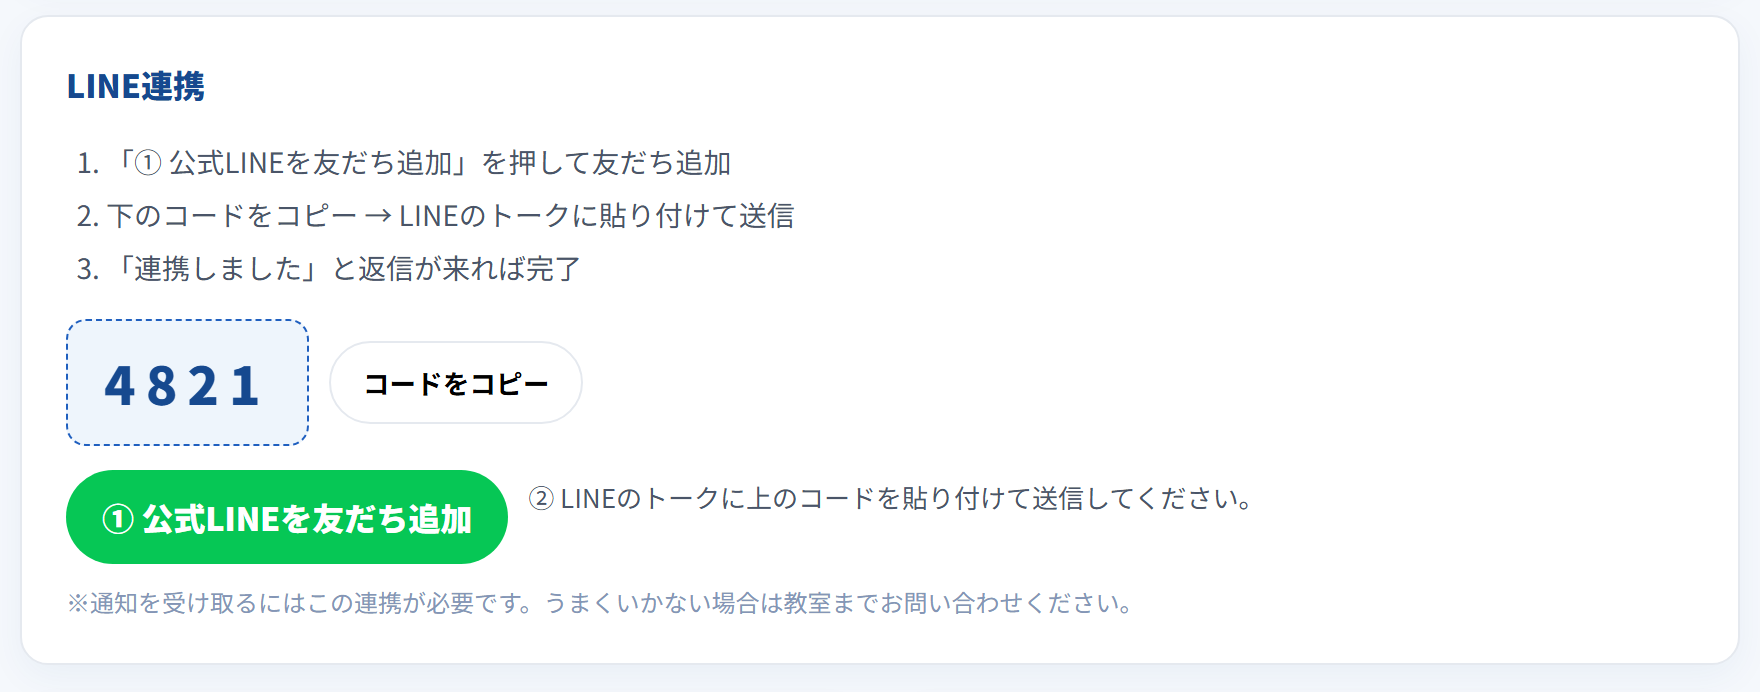
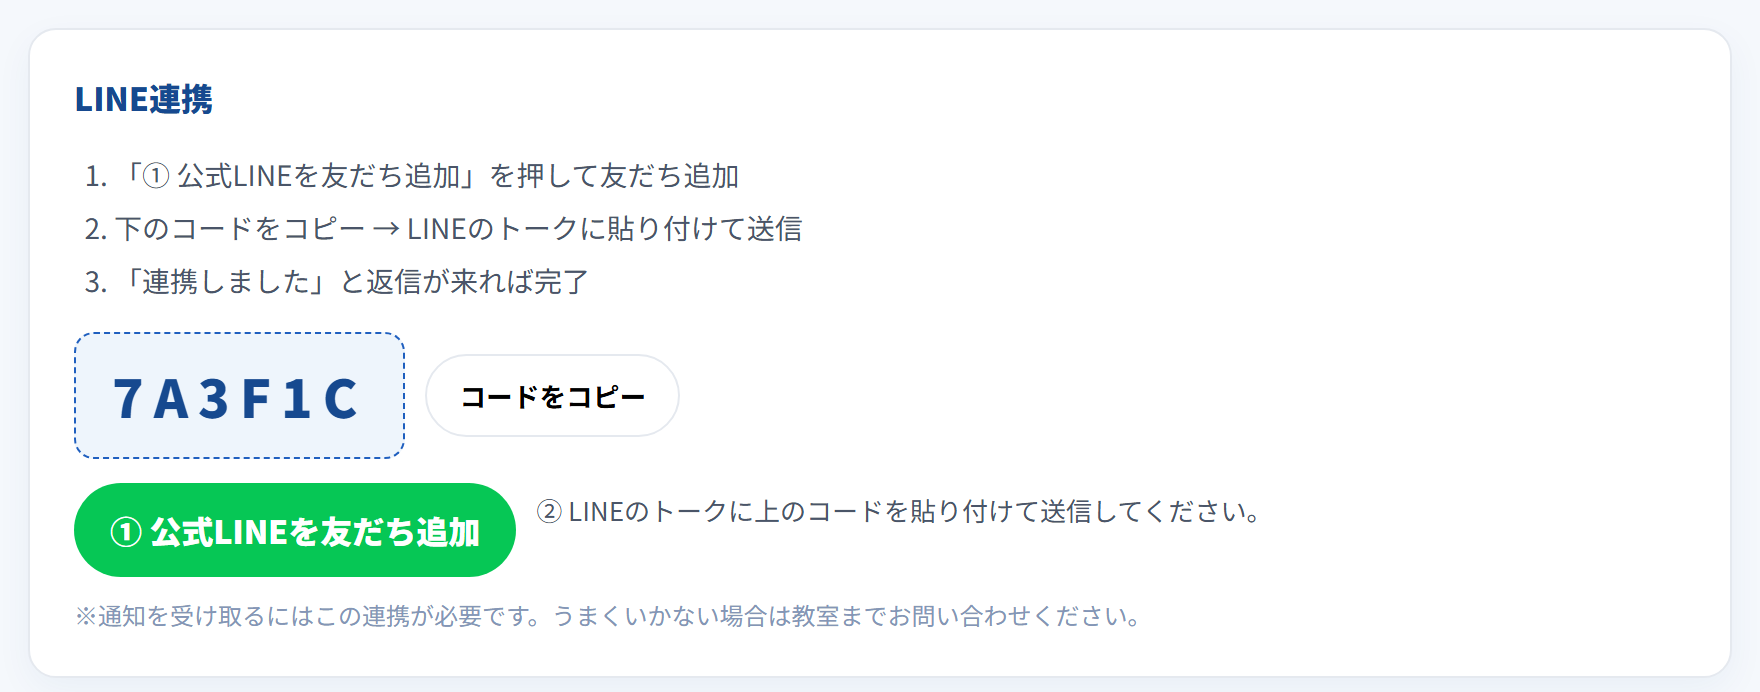
Review fixes 5-7: academy copy, canonical/sitemap/OGP, price and area text
5. The academy called itself "協賛: アスクシステム" while the parent guide and
   terms say 運営; the top page said "講師を置かない" where the other two explain
   staff do support the children. The my-page guide told parents a same-day
   absence reaches us through the site, but genClassDays starts at i=1, so
   today is never in the dropdown - the guide now says to phone or LINE.
   The LINE screenshot showed a 4-digit code; real ones are 6 hex characters.
   Added password help to the login page.
6. Every page now carries a canonical URL (www and /index.html both answer 200)
   and a full OGP block with an absolute image; added sitemap.xml and pointed
   robots.txt at it. The academy's og:image was a relative path.
7. The price note said "修理・技術・部材は費用別", which read as if the technician's
   time were extra. It now states the listed price includes the labour, lists
   what is charged separately, and repeats the quote-before-work promise from
   the commercial-transactions notice. The service area was only in the map
   image; the municipalities are now in the text as well.

diff --git a/public/academy/mypage-guide.html b/public/academy/mypage-guide.html
@@ -208,14 +208,14 @@ figcaption{margin-top:8px;font-size:13.5px;color:var(--muted);text-align:center;
     <h2><span class="n">4</span>LINE連携（最初に必ず行ってください）</h2>
     <p class="sub">入退室のお知らせをLINEで受け取るために必要です。最初の1回だけの作業です。</p>
     <figure>
-      <img src="assets/manual/parent-line.png" alt="LINE連携カード。手順1〜3と、4桁の連携コード、コードをコピーボタン、公式LINEを友だち追加ボタンが表示されている">
+      <img src="assets/manual/parent-line.png" alt="LINE連携カード。手順1〜3と、6桁の連携コード、コードをコピーボタン、公式LINEを友だち追加ボタンが表示されている">
       <figcaption>「LINE連携」— 連携がお済みでない場合はこの画面になります</figcaption>
     </figure>
     <ol class="steps">
       <li><b>「① 公式LINEを友だち追加」を押す</b>
         LINEアプリが開きます。ASKデジタルアカデミーの公式アカウントを友だち追加してください。</li>
       <li><b>連携コードをコピーする</b>
-        マイページに戻り、大きく表示されている数字（連携コード）の横の<b>「コードをコピー」</b>を押します。</li>
+        マイページに戻り、大きく表示されている6桁の英数字（連携コード）の横の<b>「コードをコピー」</b>を押します。</li>
       <li><b>LINEのトークにコードを貼り付けて送信</b>
         友だち追加した公式LINEのトーク画面を開き、コピーしたコードを貼り付けて送信します。</li>
       <li><b>「連携しました」の返信が来たら完了</b>
@@ -239,7 +239,7 @@ figcaption{margin-top:8px;font-size:13.5px;color:var(--muted);text-align:center;
     <ol class="steps">
       <li><b>「📩 欠席を連絡する」を押す</b>お子さまのカードにあるオレンジ色のボタンです。</li>
       <li><b>お休みする日を選ぶ</b>
-        ご契約のコースの登校日が一覧で出ます。休校日は自動的に除かれています。</li>
+        ご契約のコースの登校日が<b>翌日以降</b>の分だけ一覧で出ます。休校日は自動的に除かれています。</li>
       <li><b>「この日で連絡する」を押す</b>「欠席を連絡しました」と表示されれば完了です。</li>
     </ol>
     <figure>
@@ -247,8 +247,9 @@ figcaption{margin-top:8px;font-size:13.5px;color:var(--muted);text-align:center;
       <figcaption>「欠席を連絡する」を押すと、日付を選ぶ欄が開きます</figcaption>
     </figure>
     <div class="box blue">
-      <h4>当日の急なお休みは、お電話か公式LINEが確実です</h4>
-      マイページからのご連絡でも届きますが、開校時間直前・直後は、お電話（0966-63-4253）か公式LINEをおすすめします。
+      <h4>当日の急なお休みは、お電話か公式LINEでお願いします</h4>
+      マイページの日付欄には<b>当日は表示されません</b>。当日の欠席は、
+      お電話（0966-63-4253）か公式LINEでご連絡ください。
     </div>
     <p style="font-size:14px;color:var(--muted);">※ご都合による欠席分の受講料の返金・繰越はありません。振替の可否は教室にご相談ください。</p>
   </section>

diff --git a/public/ict-support.html b/public/ict-support.html
@@ -5,6 +5,15 @@
 <meta name="viewport" content="width=device-width, initial-scale=1.0">
 <title>ICTサポート｜AI活用支援 詳細・料金｜アスクシステム</title>
 <meta name="description" content="Wi-Fi設定・PC初期設定からスマートホーム化、DX化・AI導入まで。八代市・水俣市・芦北町のアスクシステムが提供するICTサポート｜AI活用支援の詳細内容と料金をご案内します。">
+<link rel="canonical" href="https://asksystem.jp/ict-support.html">
+<meta property="og:type" content="article">
+<meta property="og:url" content="https://asksystem.jp/ict-support.html">
+<meta property="og:title" content="ICTサポート｜AI活用支援 詳細・料金｜アスクシステム">
+<meta property="og:description" content="Wi-Fi設定・PC初期設定からスマートホーム化、DX化・AI導入まで。サービス内容と税込料金をご案内します。">
+<meta property="og:image" content="https://asksystem.jp/assets/ogp.jpg">
+<meta property="og:site_name" content="アスクシステム">
+<meta property="og:locale" content="ja_JP">
+<meta name="twitter:card" content="summary_large_image">
 <link rel="preconnect" href="https://fonts.googleapis.com">
 <link rel="preconnect" href="https://fonts.gstatic.com" crossorigin>
 <link href="https://fonts.googleapis.com/css2?family=Noto+Sans+JP:wght@400;500;700;900&display=swap" rel="stylesheet">
@@ -167,7 +176,11 @@ ul{list-style:none;}
   background:#fff1e6;color:var(--orange);font-size:18.5px;font-weight:800;
   padding:9px 18px;border-radius:999px;white-space:nowrap;
 }
-.price-note{text-align:center;color:var(--muted);font-size:18px;margin-top:18px;}
+.price-note{color:var(--muted);font-size:16px;line-height:1.9;margin:18px auto 0;max-width:860px;
+  background:#f7fafd;border:1px solid #e1ebf5;border-radius:12px;padding:18px 22px;}
+.price-note p + p{margin-top:8px;}
+.price-note b{color:#33404f;}
+.price-note .pn-strong{color:#33404f;}
 .price-cta{display:flex;justify-content:center;margin-top:32px;}
 
 /* ===== Contact (shared with homepage) ===== */
@@ -365,7 +378,13 @@ footer a:hover{color:var(--blue);}
         <div class="pt-price quote">要見積</div>
       </div>
     </div>
-    <p class="price-note">※表示価格は税込です。修理・技術・部材は費用別。詳しくはお問い合わせください。</p>
+    <div class="price-note">
+      <p>※表示価格はすべて<b>税込</b>です。記載の金額には、作業にあたる技術料が含まれます。</p>
+      <p>※次の費用は別途申し受けます：<b>部材費・機器代・出張費</b>、および修理など記載の作業範囲を超える作業。</p>
+      <p class="pn-strong">追加費用が発生する場合は、<b>必ず事前にお見積りをご提示し、ご了承いただいてから</b>作業に着手します。
+        お客様の承諾なく費用を追加することはありません。</p>
+      <p>作業内容・台数・所要時間によって金額は変わります。まずはお気軽にご相談ください。</p>
+    </div>
     <div class="price-cta">
       <a href="#contact" class="btn btn-pink">お見積り・ご相談はこちら</a>
     </div>

diff --git a/public/index.html b/public/index.html
@@ -5,6 +5,15 @@
 <meta name="viewport" content="width=device-width, initial-scale=1.0">
 <title>【八代・水俣・芦北】ICTサポート・パソコン教室｜アスクシステム</title>
 <meta name="description" content="パソコン・Wi-Fi・ICTの困りごとを地域密着で即対応。ICTサポートからデジタル教育まで、アスクシステムにお任せください。八代市・水俣市・芦北町・津奈木町・出水市対応。">
+<link rel="canonical" href="https://asksystem.jp/">
+<meta property="og:type" content="website">
+<meta property="og:url" content="https://asksystem.jp/">
+<meta property="og:title" content="【八代・水俣・芦北】ICTサポート・パソコン教室｜アスクシステム">
+<meta property="og:description" content="パソコン・Wi-Fi・ICTの困りごとを地域密着で即対応。ICTサポートからデジタル教育まで、八代市・水俣市・芦北町・津奈木町・出水市に対応します。">
+<meta property="og:image" content="https://asksystem.jp/assets/ogp.jpg">
+<meta property="og:site_name" content="アスクシステム">
+<meta property="og:locale" content="ja_JP">
+<meta name="twitter:card" content="summary_large_image">
 <link rel="preconnect" href="https://fonts.googleapis.com">
 <link rel="preconnect" href="https://fonts.gstatic.com" crossorigin>
 <link href="https://fonts.googleapis.com/css2?family=Noto+Sans+JP:wght@400;500;700;900&display=swap" rel="stylesheet">
@@ -361,6 +370,9 @@ ul{list-style:none;}
   background:#f4f8fc;border:1px solid #e1ebf5;
   border-radius:8px;padding:8px;margin:0 auto 14px;
 }
+.area-list{font-size:15px;line-height:1.7;color:#33404f;font-weight:700;text-align:center;}
+.area-list + .area-list{margin-top:8px;}
+.area-list span{display:block;font-size:13px;font-weight:600;color:var(--muted);}
 .area-note{font-size:15px;color:var(--muted);text-align:center;margin-top:10px;}
 
 .owner{display:flex;flex-direction:column;align-items:center;gap:14px;text-align:center;}
@@ -732,7 +744,9 @@ footer a:hover{color:var(--blue);}
         <div class="hd">対応エリア</div>
         <div class="body">
           <img class="area-img" src="assets/map.png" alt="対応エリア地図（八代市・水俣市・芦北町・津奈木町・出水市）" width="372" height="520" loading="lazy" decoding="async">
-          <p class="area-note">※その他相談可</p>
+          <p class="area-list"><span>熊本県</span>八代市・水俣市・芦北町・津奈木町</p>
+          <p class="area-list"><span>鹿児島県</span>出水市</p>
+          <p class="area-note">※上記以外の地域もご相談ください。</p>
         </div>
       </div>
       <div class="box" id="owner">

diff --git a/public/academy/index.html b/public/academy/index.html
@@ -10,7 +10,7 @@
   <meta property="og:title" content="ASKデジタルアカデミー｜熊本の小学生向けAI学習塾">
   <meta property="og:description" content="ASKデジタルアカデミーは、小学生向けの5教科学習・タイピング・AI学習を通して、自分で学ぶ力を育てます。">
   <meta property="og:type" content="website">
-  <meta property="og:image" content="assets/images/ogp.png">
+  <meta property="og:image" content="https://asksystem.jp/academy/assets/images/ogp.png">
   <meta property="og:site_name" content="ASKデジタルアカデミー">
   <meta property="og:locale" content="ja_JP">
   <meta name="twitter:card" content="summary_large_image">
@@ -56,7 +56,7 @@
           小学生のうちから。
         </h1>
         <p class="hero-description">
-          対象は小学3～6年生。講師を置かない新しい学習カリキュラムやAIの正しい活用を通して自ら学ぶ習慣を。
+          対象は小学3～6年生。一斉授業ではなく、スタッフが見守るなかで自ら学ぶ習慣を。AIの正しい活用も身につけます。
         </p>
         <div class="hero-buttons">
           <a href="https://lin.ee/xaSJRVQ" class="btn-primary" target="_blank" rel="noopener noreferrer">
@@ -332,7 +332,7 @@
       <div class="footer-bottom">
         <p>&copy; 2026 ASK Digital Academy. All rights reserved.</p>
         <div class="sponsor">
-          <span>協賛:</span>
+          <span>運営:</span>
           <strong style="color: rgba(255,255,255,0.7);">アスクシステム</strong>
         </div>
       </div>

diff --git a/public/philosophy.html b/public/philosophy.html
@@ -5,6 +5,15 @@
 <meta name="viewport" content="width=device-width, initial-scale=1.0">
 <title>経営理念｜アスクシステム</title>
 <meta name="description" content="アスクシステムの経営理念。自己依存・自己挑戦・自己責任・自己評価・他者支援の5つの信条を掲げ、地域のICT活用を支えます。">
+<link rel="canonical" href="https://asksystem.jp/philosophy.html">
+<meta property="og:type" content="article">
+<meta property="og:url" content="https://asksystem.jp/philosophy.html">
+<meta property="og:title" content="経営理念｜アスクシステム">
+<meta property="og:description" content="アスクシステムの経営理念。自己依存・自己挑戦・自己責任・自己評価・他者支援の5つの信条を掲げ、地域のICT活用を支えます。">
+<meta property="og:image" content="https://asksystem.jp/assets/ogp.jpg">
+<meta property="og:site_name" content="アスクシステム">
+<meta property="og:locale" content="ja_JP">
+<meta name="twitter:card" content="summary_large_image">
 <link rel="preconnect" href="https://fonts.googleapis.com">
 <link rel="preconnect" href="https://fonts.gstatic.com" crossorigin>
 <link href="https://fonts.googleapis.com/css2?family=Noto+Sans+JP:wght@400;500;700;900&family=Noto+Serif+JP:wght@500;600;700&display=swap" rel="stylesheet">

diff --git a/public/tokushoho.html b/public/tokushoho.html
@@ -6,11 +6,15 @@
 <title>特定商取引法に基づく表記｜アスクシステム</title>
 <meta name="description" content="アスクシステムの特定商取引法に基づく表記。事業者情報、役務の対価、お支払い方法・時期、サービスの提供時期、キャンセルの取扱いを記載しています。">
 <meta name="robots" content="index,follow">
+<link rel="canonical" href="https://asksystem.jp/tokushoho.html">
+<meta property="og:type" content="article">
+<meta property="og:url" content="https://asksystem.jp/tokushoho.html">
 <meta property="og:title" content="特定商取引法に基づく表記｜アスクシステム">
 <meta property="og:description" content="アスクシステムの特定商取引法に基づく表記です。">
-<meta property="og:type" content="article">
+<meta property="og:image" content="https://asksystem.jp/assets/ogp.jpg">
 <meta property="og:site_name" content="アスクシステム">
 <meta property="og:locale" content="ja_JP">
+<meta name="twitter:card" content="summary_large_image">
 <link rel="preconnect" href="https://fonts.googleapis.com">
 <link rel="preconnect" href="https://fonts.gstatic.com" crossorigin>
 <link href="https://fonts.googleapis.com/css2?family=Noto+Sans+JP:wght@400;500;700;900&display=swap" rel="stylesheet">

diff --git a/public/privacy.html b/public/privacy.html
@@ -6,11 +6,15 @@
 <title>プライバシーポリシー｜アスクシステム</title>
 <meta name="description" content="アスクシステムのプライバシーポリシー。個人情報の定義、収集方法、利用目的、第三者提供、開示・訂正・利用停止の手続き、お問い合わせ窓口について定めています。">
 <meta name="robots" content="index,follow">
+<link rel="canonical" href="https://asksystem.jp/privacy.html">
+<meta property="og:type" content="article">
+<meta property="og:url" content="https://asksystem.jp/privacy.html">
 <meta property="og:title" content="プライバシーポリシー｜アスクシステム">
 <meta property="og:description" content="アスクシステムのプライバシーポリシーです。">
-<meta property="og:type" content="article">
+<meta property="og:image" content="https://asksystem.jp/assets/ogp.jpg">
 <meta property="og:site_name" content="アスクシステム">
 <meta property="og:locale" content="ja_JP">
+<meta name="twitter:card" content="summary_large_image">
 <link rel="preconnect" href="https://fonts.googleapis.com">
 <link rel="preconnect" href="https://fonts.gstatic.com" crossorigin>
 <link href="https://fonts.googleapis.com/css2?family=Noto+Sans+JP:wght@400;500;700;900&display=swap" rel="stylesheet">

diff --git a/public/academy/login.html b/public/academy/login.html
@@ -27,6 +27,10 @@
   .msg.err{display:block;background:#fdecef;border:1px solid #f6c4d5;color:#c93866;}
   .foot{margin-top:22px;text-align:center;font-size:13px;}
   .foot a{color:var(--blue);font-weight:700;text-decoration:none;}
+  .msg:empty{display:none;}   /* エラー前の空の赤帯を出さない */
+  .help{margin-top:16px;padding-top:14px;border-top:1px solid #e6ebf2;
+        font-size:13px;line-height:1.8;color:#6b7684;text-align:center;}
+  .help a{color:#1f5fbf;font-weight:700;}
 </style>
 </head>
 <body>
@@ -48,6 +52,8 @@
       <p style="font-size:14px;font-weight:700;color:#33404f;margin-bottom:10px;">同じメールで複数のアカウントがあります。ログインする方を選んでください：</p>
       <div id="choose-list" style="display:flex;flex-direction:column;gap:8px;"></div>
     </div>
+    <p class="help">パスワードをお忘れの場合は、教室までご連絡ください。<br>
+      <a href="tel:0966634253">0966-63-4253</a>（受付 9:00〜18:00）または<a href="https://lin.ee/xaSJRVQ" target="_blank" rel="noopener">公式LINE</a>から再設定をご案内します。</p>
     <div class="foot"><a href="index.html">← アカデミートップへ戻る</a></div>
   </div>
 
